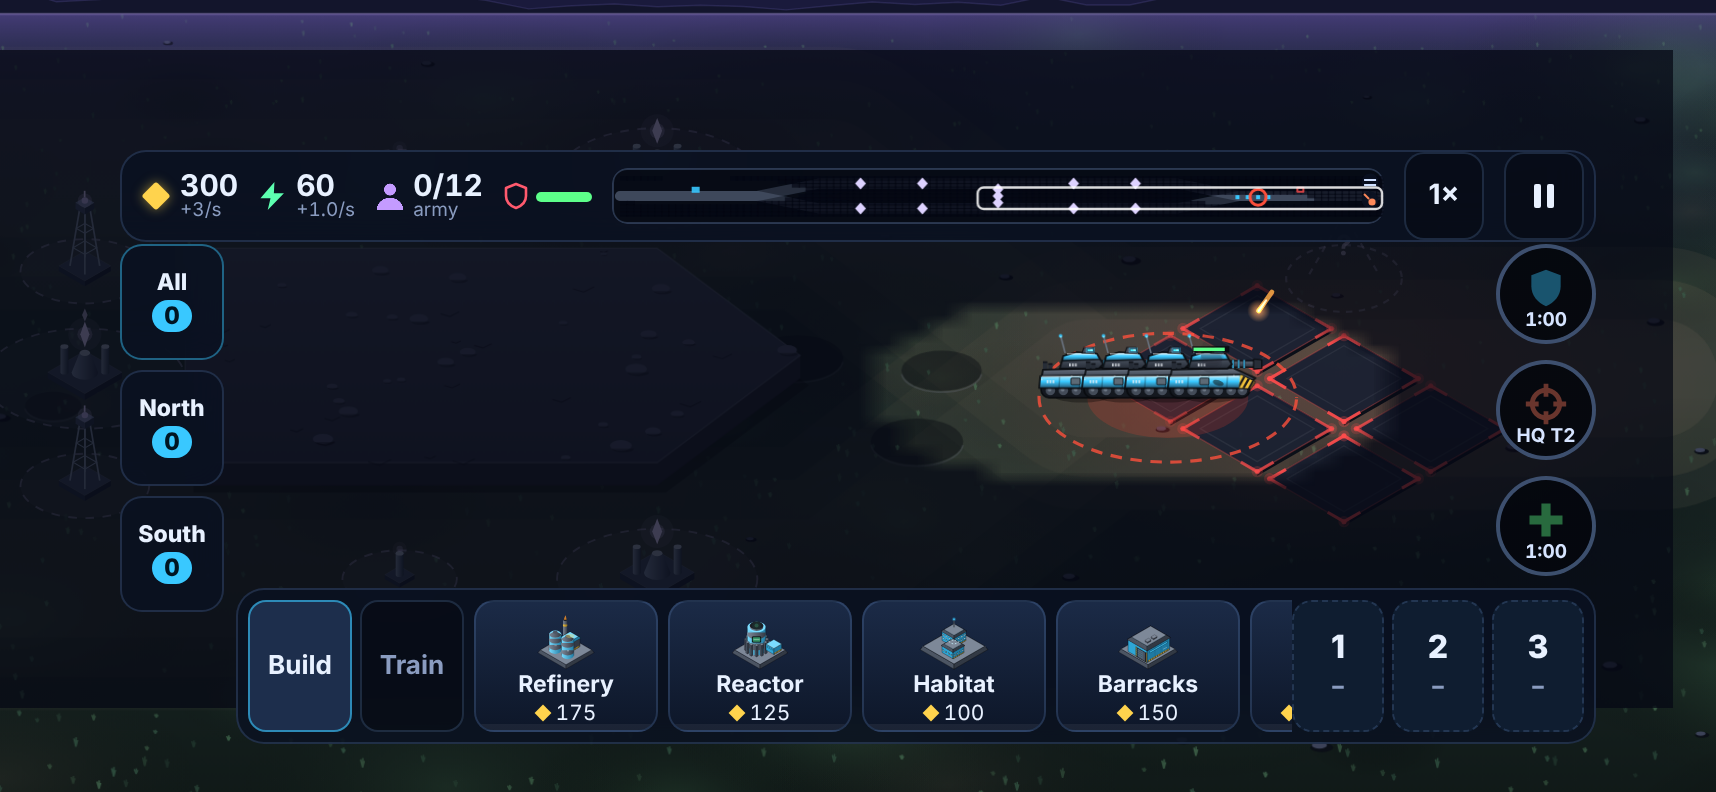
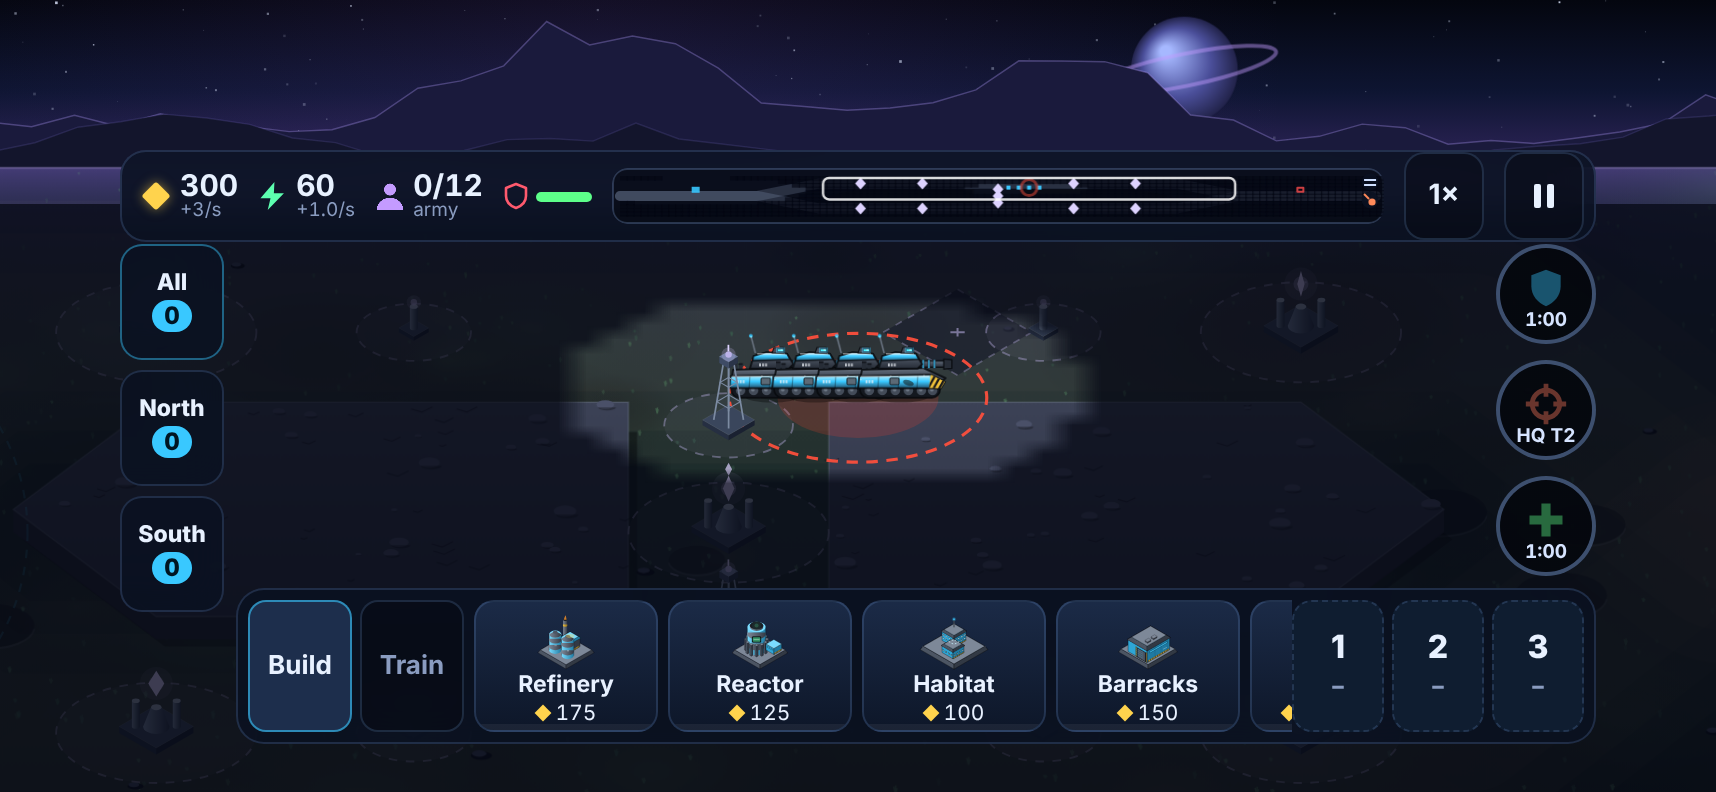
v2.91: every building redrawn (faction rework batch 5d): KNOWN_ISSUES entry with test results (npm test 613/613, test:slow 15/15), frame times and self-play identity
Claude-Session: https://claude.ai/code/session_01AVQk55AdHkHygvfGykcFE2

diff --git a/KNOWN_ISSUES.md b/KNOWN_ISSUES.md
@@ -2,11 +2,17 @@
 
 Issues found during testing that are deliberately deferred. Each lists the step that should address it.
 
+## Every building redrawn (v2.91, faction rework batch 5d)
+- **What:** docs/FACTION_REWORK.md "Batch 5d" (with the full building inventory: 11 Last Fist buildings including the node bunker, 10 Bloomhost, 10 Axiarch). Art and docs only, so no switch block: src/render/buildings-rework-5d.js replaces the BART, BART_BH and BART_AX entries. Team colour on each building's largest surfaces (Last Fist prefab module walls, Bloomhost carapace, Axiarch team stone); roles read from shape (production: doors, gates, maws, pads; defence: a turning gun on an armoured base; economy: silos, sacs, looms, a reactor tower; supply: windowed modules, eggs, towers). Damage stages for every building from health only (`dmgStage`: above 66%, above 33%, below; `DMG5_AT`, `dmg5`, `dmgLive5`), none while under construction or for a ghost. Producing animations for every production building (doors roll up, mandibles open, seams gape, portals flare). Every gun turns about the SIM's `muzzle()` point except the Maw (see Open). The building cache key now carries the faction, the damage stage, the draw function and the colours (`bKey`, `bArtKey`); `BCACHE.on` switches it off; `bBox(type, fac)` sizes each faction's box from its own definition.
+- **No gameplay change:** `npm test` includes tests/determinism.test.js: every pinned fingerprint matches (the old sets, FP_V288G*, FP_V290*). Self-play (audit/sim/selfplay-5d.js: Hard vs Hard, all six pairings on Classic, Two-Lane and Three-Lane, seed 7, this build against v2.90's index.html, 1b8c40f, the match state hashed every 100 ticks): `b5c` off 18 of 18 identical at 4,918 state hashes, 0 errors; `b5c` on 18 of 18 identical at 4,602 state hashes, 0 errors; same winners and end times (logs in audit/logs-p1/rework5d-v291/).
+- **Checks:** tests/buildings.test.js now checks all three factions: every building, tier, team and gun angle stays on its pad and under its health bar, and every cached body at every damage stage fits its cache box. tests/rework-5d.test.js: a paused base of each faction (9 buildings: built, damaged at stage 1 and 2, under construction, upgrading) rendered with the cache on and off: 0.000% of pixels differ by more than 64 of 255 in every faction (0.51-0.89% by more than 8, resampling of the cached bitmaps); a cached body per damage stage; the key changes with the art, the colours, the faction, the tier and the damage stage; every HQ, Turret, Null Lance and node bunker gun turns within 0.6 art units of the SIM muzzle. Frame time (tests/rework-5d-perf.js, headless Chromium at 667×375, 2× pixels, 300 frames, 3 runs each, same machine; audit/logs-p1/rework5d-v291/perf.txt): late-game base scene (36 buildings from all three factions, 18 a side, tiers 1-3, two under construction and four damaged a side, 48 units fighting): render() median 2.3-2.4 ms with the cache, 4.4-4.5 ms without it (this build's art drawn live), 2.1-2.2 ms on v2.90 (its old, simpler art, cached); frame interval median 16.7 ms everywhere, 95th 16.8 ms with the cache and 33.4 ms without. Swarm scene (batch 5b's, no buildings): render() median 1.9-2.2 ms on this build with the cache on, 2.0 ms off, 1.9-2.1 ms on v2.90. Screenshots (667×375, tests/rework-5d-shots.js): docs/screenshots/rework5d-gallery-lastfist, -gallery-bloomhost, -gallery-axiarchs, -stages, -match, -base-lastfist, -base-bloomhost, -base-axiarchs. `npm test`: 613 passed, 0 failed (the build check included); `npm run test:slow`: 15 passed, 0 failed (24 min), both on the final build.
+- **Open:** the Maw's jaws turn about pt(0, 0, 30), 8 art units below the SIM's turret muzzle (38), because the Maw's health bar sits at 44 (its BDEF h of 18 is a SIM value); its spines still start at the jaws' tip area. The new art's live parts (doors, floodlights, damage flicker) cost about 0.2 ms more per frame than v2.90's in the base scene. Damage marks are small at real size (a building is about 60 px across); the SIM's smoke under 50% health still carries most of the signal. Path choices still show only on the path badge. The old building draw functions stay in the source, unused.
+
 ## Axiarch art, the Needlewing AI fix and the Medevac rename (v2.90, faction rework batch 5c)
 - **What:** docs/FACTION_REWORK.md "Batch 5c". Art: the Lancer, Gravemantle, Eventide, Prismwing and Shardstorm redrawn in the reworked Axiarch style (src/render/units-rework-5c.js; muzzles on the SIM's MUZ points; new sprite boxes and `UVIS` heights; the two flyers stay in 5a's aircraft pose cache with their old cycles). AI, behind `REWORK.b5c` (src/sim/rework-5c.js, per game in `g.rw`, on by default; a v2.89 save resumes with it off; a b5c-off save leaves the key out; a "Batch 5c" switch per Test Range row): a Normal or Hard Bloomhost AI's first Bloomspire T2 path is one seeded roll kept for the match, Swarm Bloom 75% (`AI5C.lean`) when enemy air is expected (5b's own signal `aiAirSignal5b`, an enemy aircraft seen this match `side.air5c`, any enemy air production building seen, or a Last Fist enemy), the persona's 60/40 otherwise; it replaces 5b's Bloomspire rule. Text: the Medicopter is the Medevac (Medevacs) everywhere players read it; the id stays `medic`.
 - **Off = v2.89:** every pinned fingerprint in tests/determinism.test.js matches with `b5c` off (the old sets and FP_V288G*); self-play identity (audit/sim/selfplay-5c.js `--identity`, Hard vs Hard, all six pairings on three maps, seed 7, log audit/logs-p1/rework5c-v290/identity-seed7.txt) against v2.89's index.html: 18 of 18 identical at 4,918 state hashes, 0 errors. With every batch on: FP_V290, FP_V290_BA, LF_BH_V290.
 - **Checks:** tests/rework-5c.test.js (5 tests: the switch and saves; 300 seeded rolls per case: Swarm Bloom about 75% against Last Fist, after an aircraft was seen, after an enemy air building was seen and with aircraft known, about 40% / 60% by persona with nothing seen, always with b5c off and aircraft known (5b's rule); the roll is kept and a second Bloomspire takes the other path; nothing of 5c is set in a b5c-off match; the art and muzzles; no "Medicopter" in the game). Self-play with b5c on (audit/sim/selfplay-5c.js, seeds 7-10, 72 matches, normal play, nothing forced or spawned; logs in audit/logs-p1/rework5c-v290/): 0 errors; in the 48 matches with Bloomhost the Bloomspire rolled Swarm Bloom 19 times and Apex Bloom 15 (enemy air expected at 25 of the 34 rolls), 14 matches never took a Bloomspire to T2; 485 Needlewings trained; Needlewing strikes on aircraft 573, in 11 matches (seed 7: 0; 8: 325 in 3; 9: 67 in 3; 10: 181 in 5); Bloomhost won 31, lost 15, drew 2 of 48 (no balance claim: one seed set per map and pairing). Frame time (tests/rework-5a-perf.js, the new `air5c` scene: 5a's air scene plus 6 Prismwings and 4 Shardstorms, 56 aircraft; headless Chromium, 667×375, 2× pixels, 3 runs each, same machine): render() median 1.5-1.7 ms on this build (6 runs) and 1.5-1.7 ms on v2.89's (3 runs); 5a's air scene 1.4 ms on both (5a measured 1.0 ms on its machine); frame interval median 16.7 ms everywhere (audit/logs-p1/rework5c-v290/perf.txt). Screenshots docs/screenshots/rework5c-units, -lineup, -match, -medevac (667×375; tests/rework-5c-shots.js). `npm test`: 611 passed, 0 failed (the build check included; the pinned Test Range skirmishes in tests/rework-3b, 4a, 4b and 5b now run with `b5c` off, since its key would be saved); `npm run test:slow`: 15 passed, 0 failed (37 min). The identity check was rerun on the final build: 18 of 18 identical.
-- **Open:** Needlewings meet aircraft only when the Bloomspire reaches T2 and the enemy flies (14 of 48 Bloomhost matches never took it to T2); with b5c on the Bloomhost AI expects air against every Last Fist enemy, so it now goes Swarm Bloom 75% of the time there even when Last Fist never builds aircraft; the old Axiarch draw functions stay in the source unused; dated audit reports and logs keep the name Medicopter; the buildings are still to be redrawn (the art batch).
+- **Open:** Needlewings meet aircraft only when the Bloomspire reaches T2 and the enemy flies (14 of 48 Bloomhost matches never took it to T2); with b5c on the Bloomhost AI expects air against every Last Fist enemy, so it now goes Swarm Bloom 75% of the time there even when Last Fist never builds aircraft; the old Axiarch draw functions stay in the source unused; dated audit reports and logs keep the name Medicopter; the buildings were redrawn in v2.91 (batch 5d).
 
 ## Last Fist art and the Marine rename (v2.89, faction rework batch 5a): all 13 units redrawn, three flyers resized, aircraft poses cached
 - **What:** docs/FACTION_REWORK.md "Batch 5a". Art and text only, so no switch block. The Rifleman is the Marine in every player-facing text (the id stays `rifle`). Every Last Fist unit is redrawn as a future frontier army (src/render/units-rework-5a.js): powered-armour infantry, angular vehicles and walkers, thruster aircraft; muzzles, the bomb bay and the heal emitter sit on the SIM's MUZ points. The Leviathan, Worldrender and Sovereign are drawn about 85 art units across (were 103, 125, 95), scaled about their muzzle points. Aircraft with one animation cycle are cached as poses (`AIR_CYC`, `AIR_BOX`, `airPose`); the cache key carries the art and the colours (`sprArtKey`).
